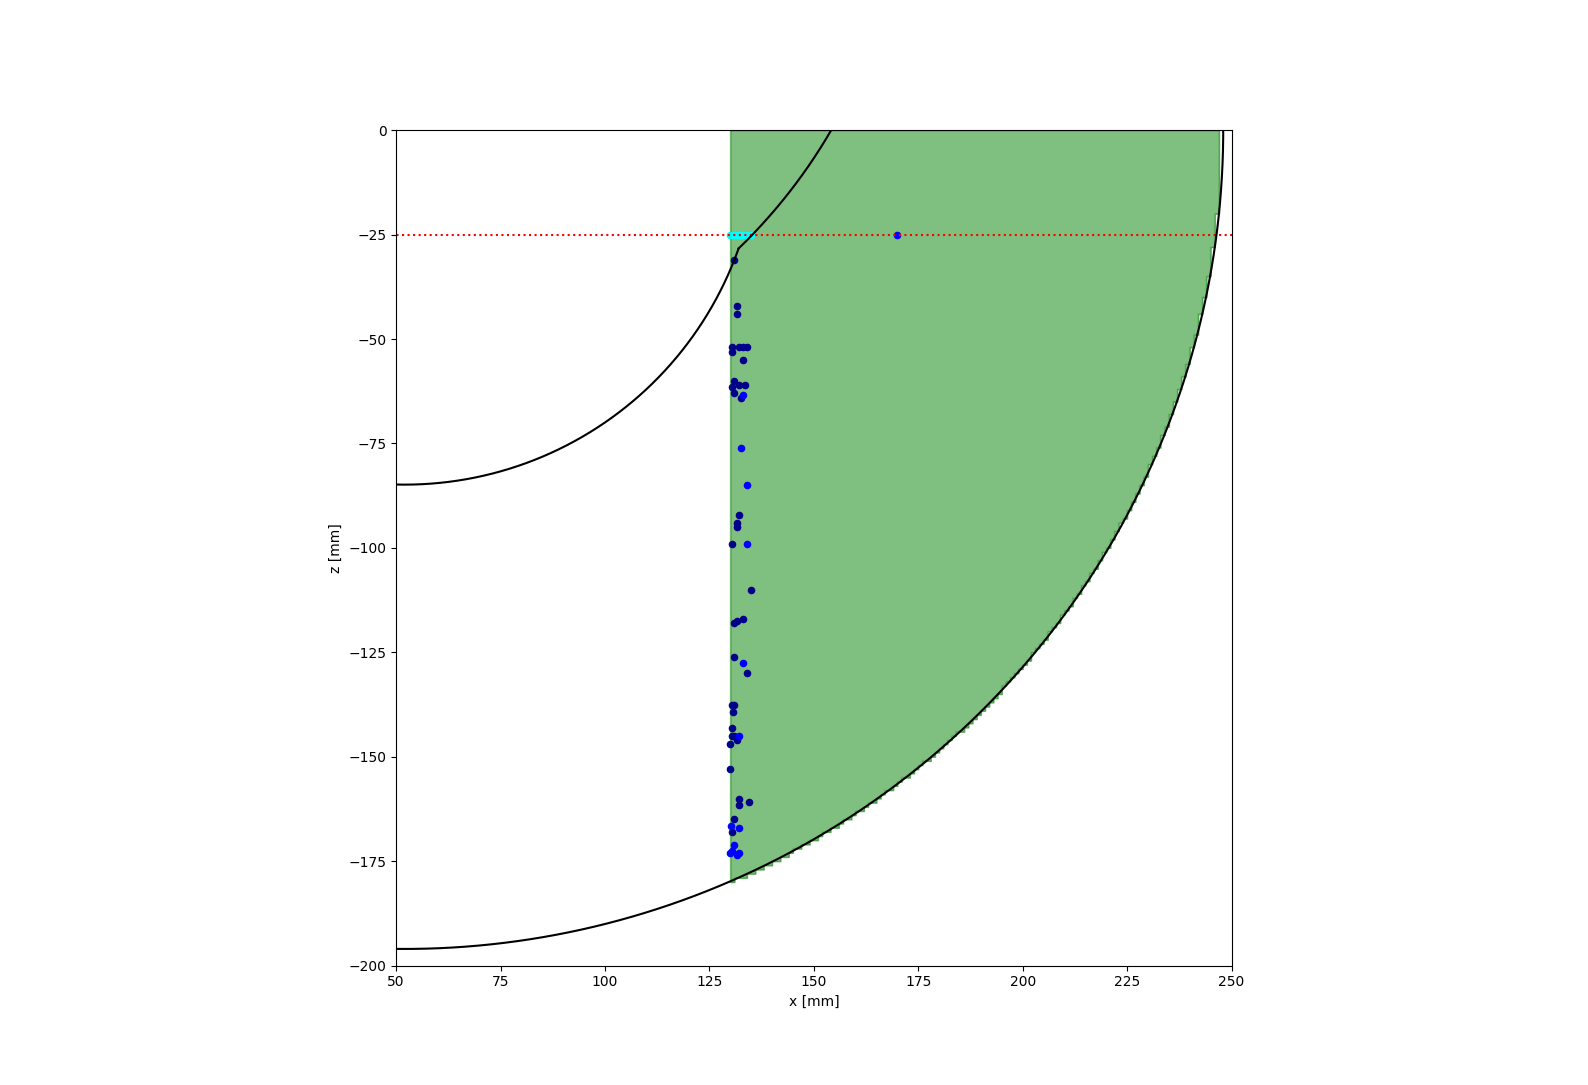
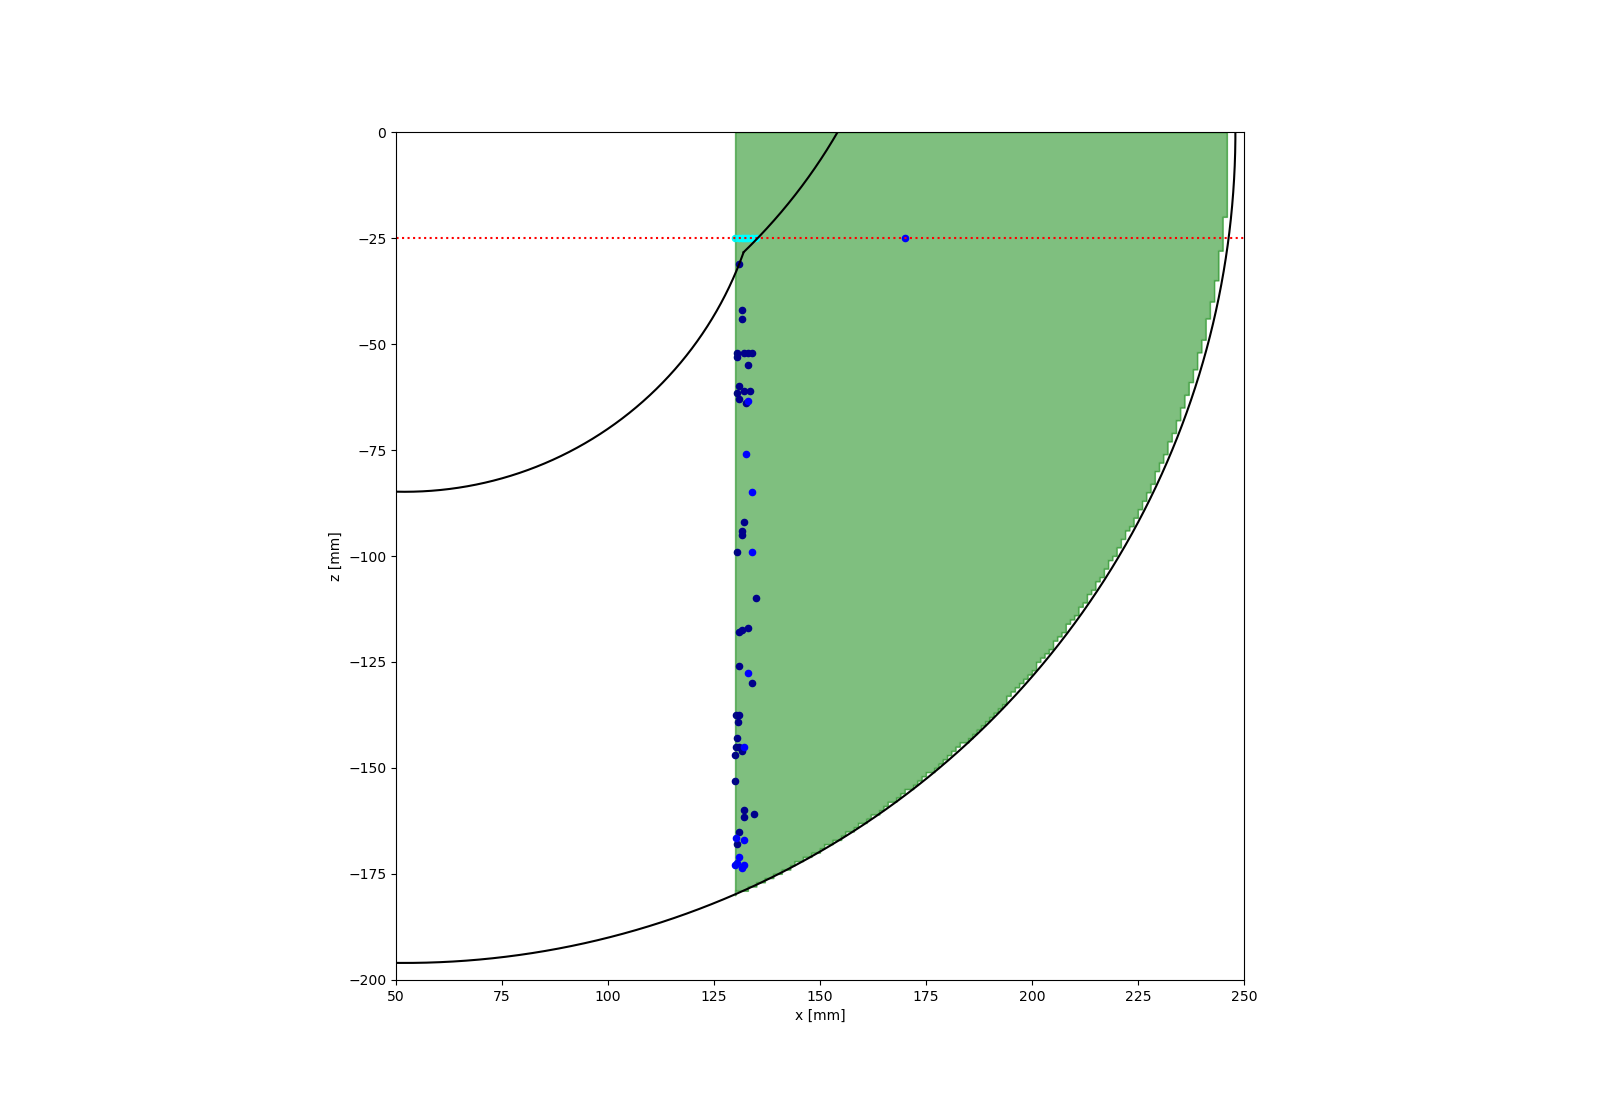
ファイルから結果を読み込む機能を追加

diff --git a/hexapod_graph_simu.py b/hexapod_graph_simu.py
@@ -6,6 +6,7 @@ mpl.use('tkagg')
 import matplotlib.pyplot as plt
 import numpy as np
 import designlab as dl
+import pandas as pd
 
 
 # 定数を定義
@@ -22,11 +23,6 @@ if __name__ == "__main__":
     ax = fig.add_subplot(1,1,1)
 
     ax.plot([X_MIN,X_MAX],[-20,-20], color = "red",linestyle = "dotted")               # グラフを描画する
-    #ax.plot([X_MIN,X_MAX],[-30,-30], color = "orange",linestyle = "dotted")               # グラフを
-
-    # 0,0を通る線を描画する
-    #ax.plot([0,0],[Z_MIN,Z_MAX], color = "black", lw = 0.5)       # グラフを描画する    
-    #ax.plot([X_MIN,X_MAX],[0,0], color = "black", lw = 0.5)       # グラフを描画する
 
     # 以下グラフの作成，描画
 
@@ -51,15 +47,19 @@ if __name__ == "__main__":
     hexapod_range_of_motion = dl.HexapodRangeOfMotion()
     hexapod_range_of_motion.render_lower_leg_range(ax,'black',1)
 
+    for i in range(6):
+        # CSVファイルのパス
+        csv_file = 'leg/all_simulation_leg' + str(i + 1) + '.csv'
 
+        # CSVファイルを読み込む
+        data = pd.read_csv(csv_file, names=['x', 'z', 'string'])
+        ax.scatter(data['x'], data['z'], marker = 'o', color = 'orange', s = 10)
 
     ax.set_xlim(X_MIN, X_MAX)   # x 軸の範囲を設定
     ax.set_ylim(Z_MIN, Z_MAX)   # z 軸の範囲を設定
 
     ax.set_xlabel('x [mm]')        # x軸のラベルを設定
     ax.set_ylabel('z [mm]')        # y軸のラベルを設定
-    #ax.set_xlim(50, 200)   # x 軸の範囲を設定
-    #ax.set_ylim(-100, 50)   # z 軸の範囲を設定
 
     ax.set_aspect('equal')  # x,y軸のスケールを揃える
 

diff --git a/designlab/hexapod.py b/designlab/hexapod.py
@@ -334,7 +334,7 @@ class HexapodLegRangeCalculator:
                     continue
                 q2 = math.acos(q2_theta)
 
-                r_margin = 0.0
+                r_margin = 1.0
                 self._approximate_max_leg_raudus[z] = (float)(x) - r_margin
 
         return
